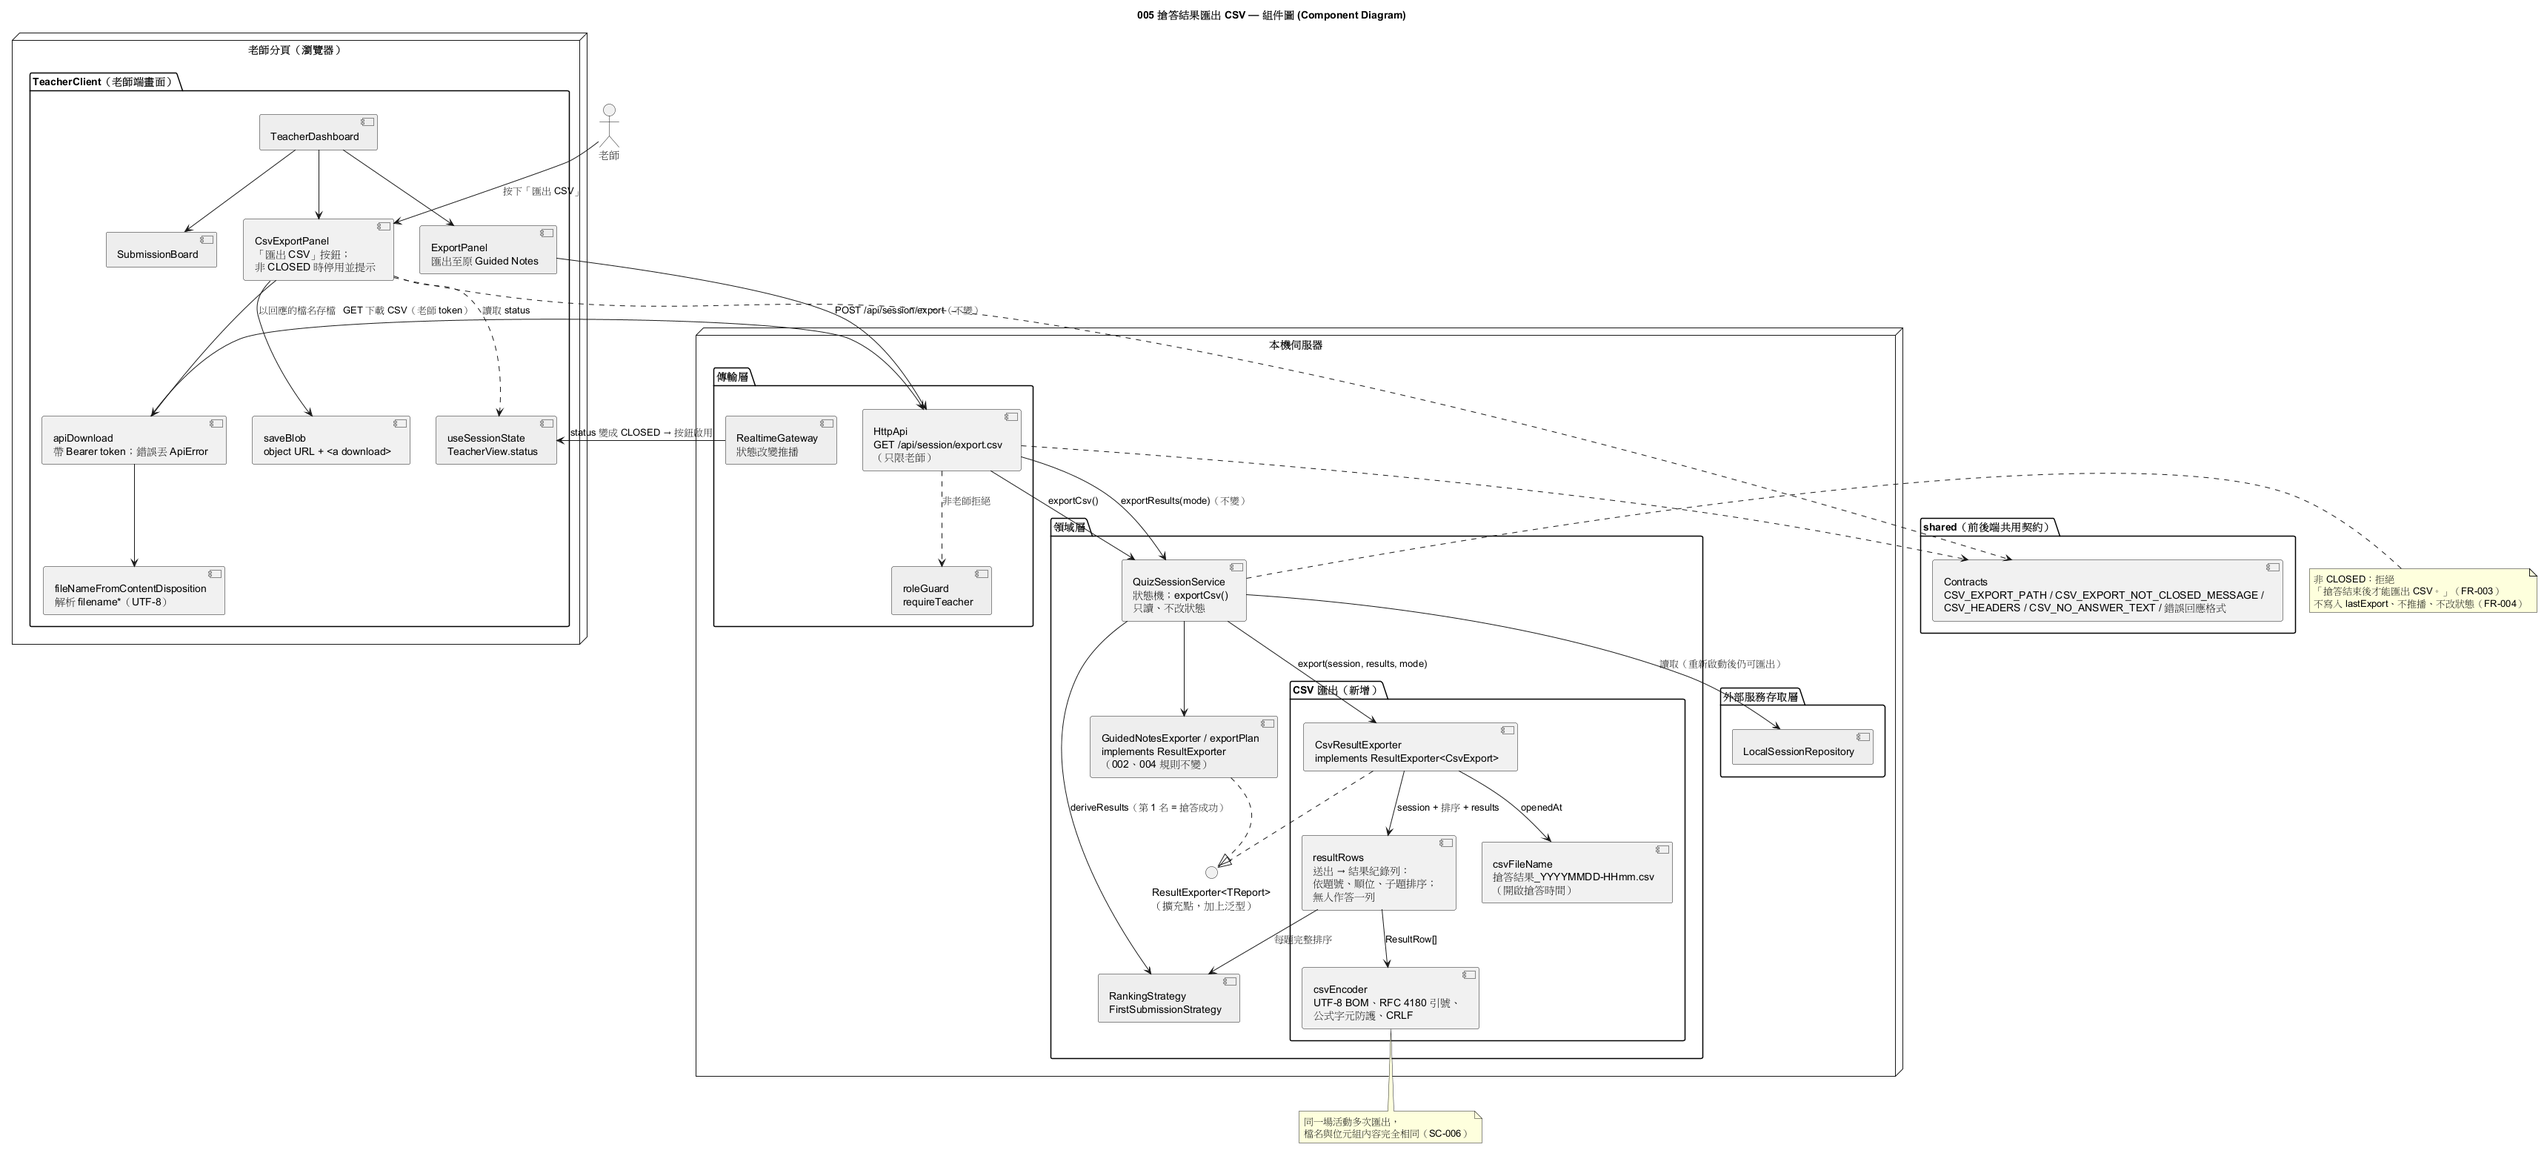
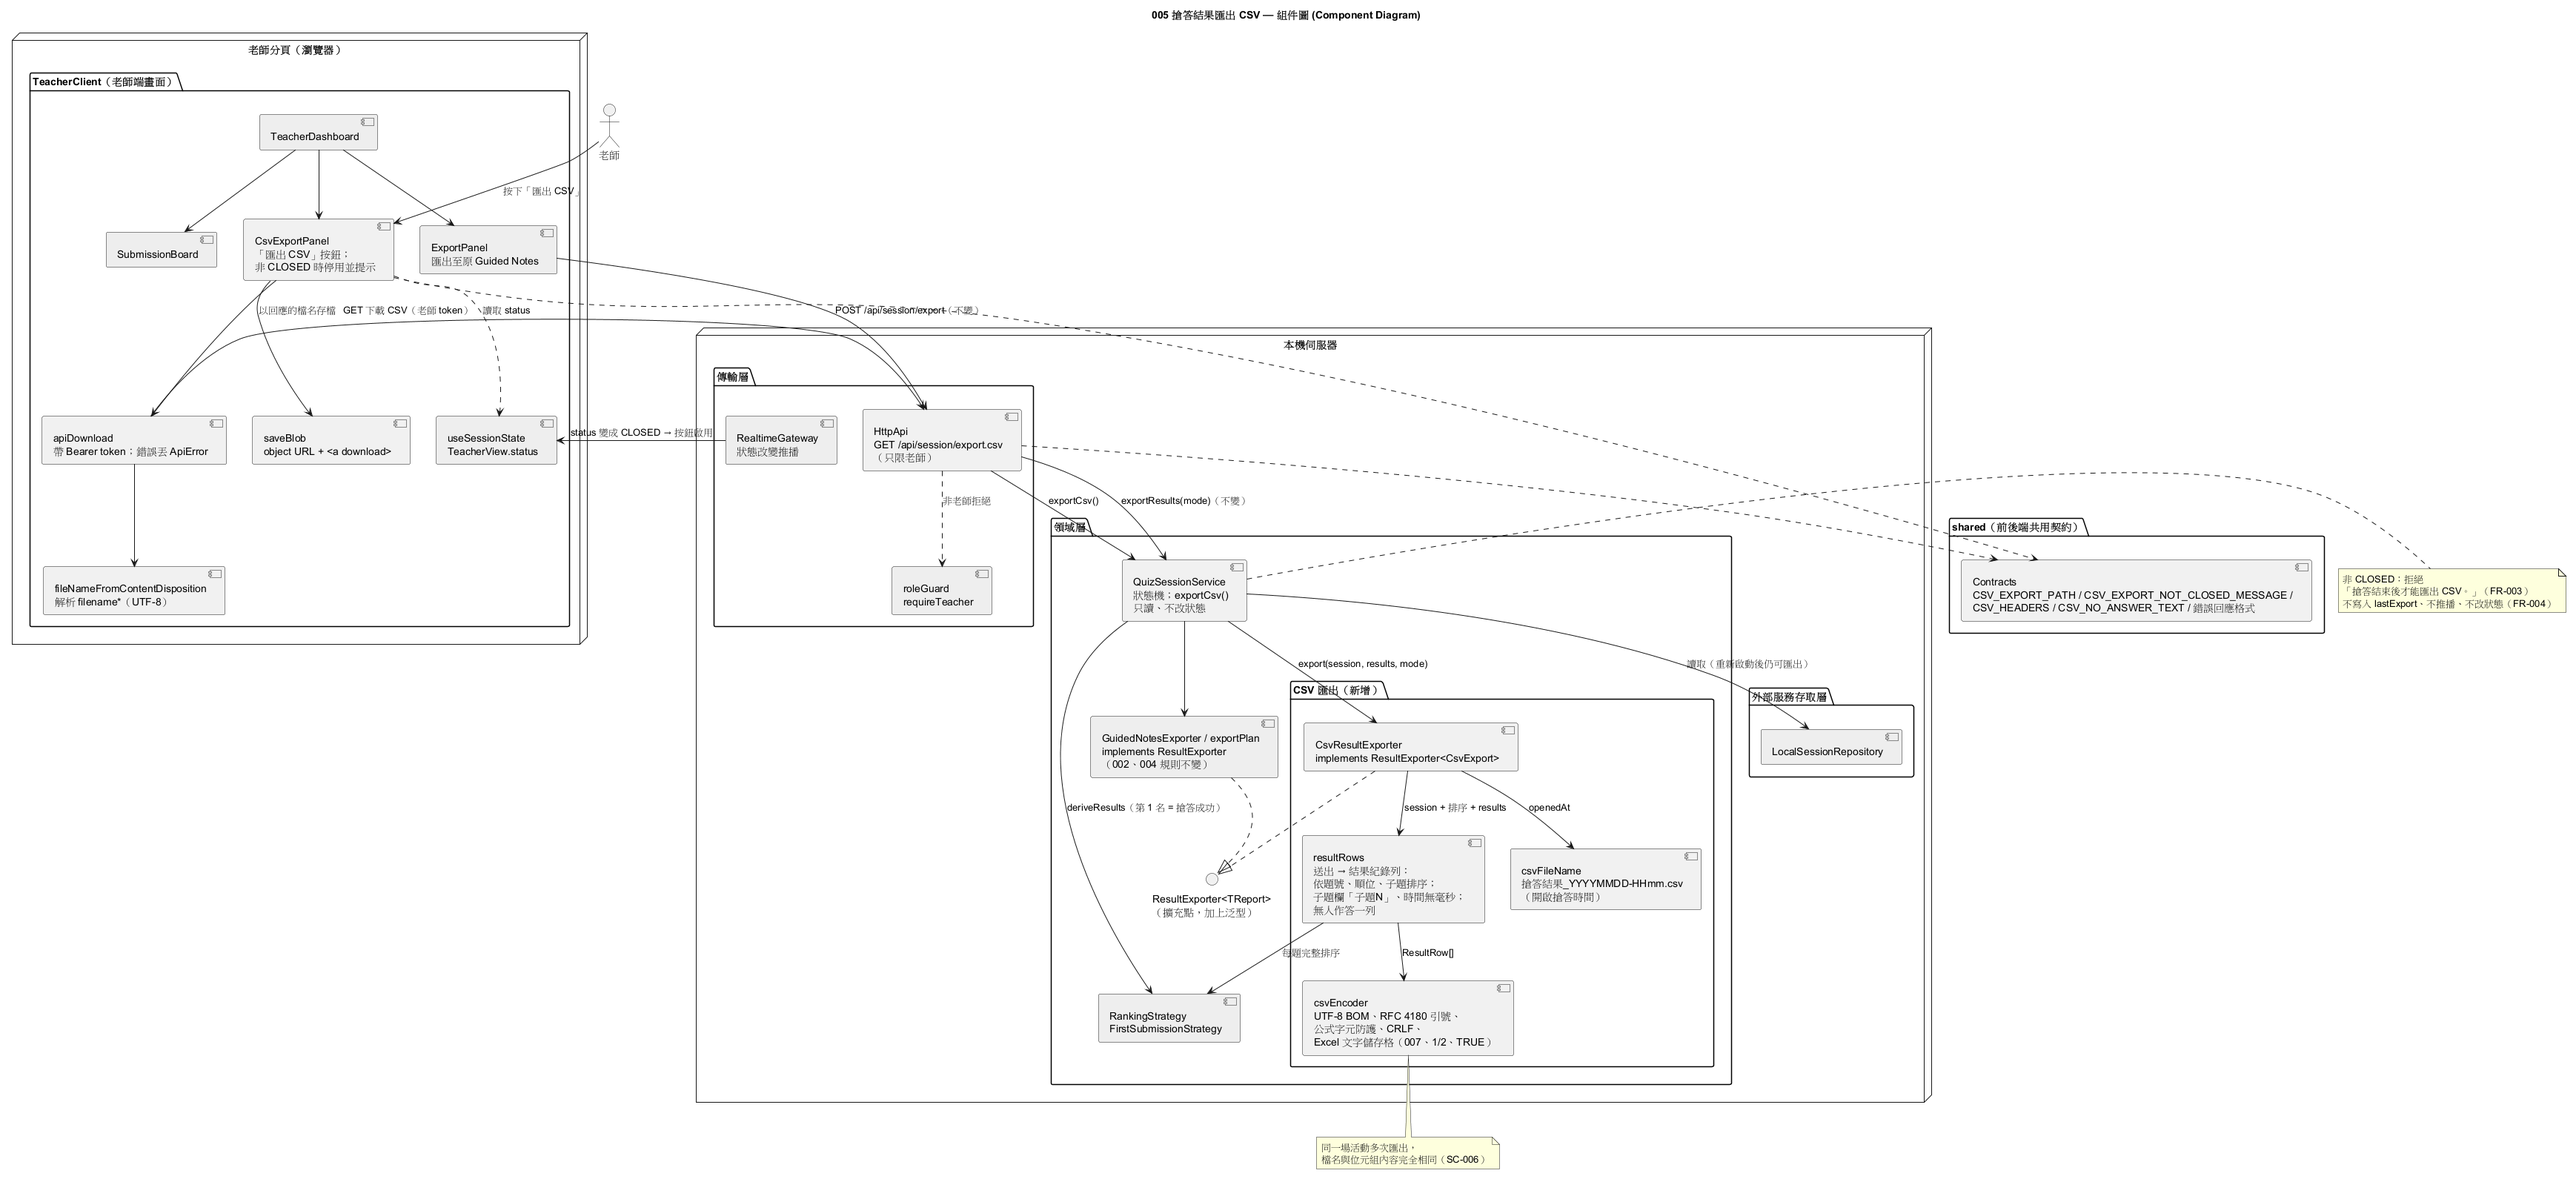
docs(005): converge diagrams, spec numbering and plan with Excel fixes
- update class/component/sequence diagrams and regenerate PNGs (T049)
- renumber Excel text-cell rule to FR-017, fix references (T050)
- update plan source structure (T051)

diff --git a/specs/005-results-csv-export/diagram-verification.md b/specs/005-results-csv-export/diagram-verification.md
@@ -15,8 +15,9 @@
 | `ResultExporter<TReport = ExportReport>` | `domain/export/resultExporter.ts` | 一致 |
 | `GuidedNotesExporter`（沿用） | `domain/export/guidedNotesExporter.ts` | 一致，未修改 |
 | `CsvResultExporter`、`CsvExport` | `domain/export/csv/csvResultExporter.ts` | 一致（忽略 mode、注入 RankingStrategy） |
-| `resultRows`：`buildResultRows`、`toCsvRecord`、`ResultRow` | `domain/export/csv/resultRows.ts` | 已更新：私有函式為 `blankLabelOf`、新增 `rowsOfSubmission`；`resultRows` 直接使用 `RankingStrategy` |
-| `csvEncoder`：`encodeCsv`、`encodeField`、`neutralizeFormula` | `domain/export/csv/csvEncoder.ts` | 已更新：新增私有的 `quoteIfNeeded` |
+| `resultRows`：`buildResultRows`、`toCsvRecord`、`ResultRow` | `domain/export/csv/resultRows.ts` | 已更新：私有函式為 `blankLabelOf`、新增 `rowsOfSubmission`；`resultRows` 直接使用 `RankingStrategy`；Excel 修正後 `blankLabelOf` 改為「子題N」、`toCsvRecord` 回傳 `CsvCell[]` 並對答案與暱稱套用 `toExcelText`、時間改用 `formatCsvSubmittedAt` |
+| `csvEncoder`：`encodeCsv`、`encodeField`、`neutralizeFormula` | `domain/export/csv/csvEncoder.ts` | 已更新：新增私有的 `quoteIfNeeded`；Excel 修正後新增 `toExcelText`、`CsvCell`、`ExcelTextCell`，`encodeField` 改收 `CsvCell` |
+| `csvSubmittedAt`：`formatCsvSubmittedAt`（取代原圖的「沿用 `formatSubmittedAt`」） | `domain/export/csv/csvSubmittedAt.ts` | 已更新：新增模組，格式 `YYYY-MM-DD HH:mm:ss`；002 的 `formatSubmittedAt` 不變，只供 Guided Notes |
 | `csvFileName`、`csvAsciiFileName` | `domain/export/csv/csvFileName.ts` | 一致 |
 | `QuizSessionService.exportCsv`、`csvExporter` 依賴 | `domain/session/quizSessionService.ts` | 一致（mutate 內回傳原 session、log 只記列數） |
 | `GET /api/session/export.csv` | `transport/http/routes/sessionRoutes.ts` | 一致 |
@@ -24,3 +25,13 @@
 | `CsvExportPanel`、`TeacherDashboard` 掛載 | `web/src/pages/teacher/` | 一致 |
 | 時序圖：排序呼叫 | `resultRows.ts` | 已更新：`rank()` 由 `resultRows` 呼叫（原圖畫成匯出器呼叫） |
 | 組件圖：排序依賴 | `resultRows.ts` | 已更新：`ResultRows --> Ranking`（原圖畫成 `CsvExporter --> Ranking`） |
+
+## 第二次更新（Excel 開啟修正，T049）
+
+人工驗證發現 Excel 會轉換子題標記、送出時間與數字型答案，程式碼因此先於圖表修改（偏離原則 VI「先改圖」的順序），
+由 converge 發現後補更新：
+
+- `005-results-csv-export-class.puml`：新增 `csvSubmittedAt`、`ExcelTextCell`；`csvEncoder` 加 `toExcelText`、`encodeField(CsvCell)`；
+  `resultRows` 加 `toCsvRecord`、`blankLabelOf` 改「子題N」；`ResultRow.submittedAt` 改為無毫秒；移除 `formatSubmittedAt`。
+- `005-results-csv-export-component.puml`、`005-results-csv-export-sequence.puml`：補上「子題N」、無毫秒時間與 Excel 文字儲存格說明。
+- 已以 `java -jar plantuml.jar "./diagrams/005*.puml"` 重新產生三張 PNG（只轉 005 的圖）；之後與 `apps/server/src/domain/export/csv/` 的程式碼一致。

diff --git a/specs/005-results-csv-export/plan.md b/specs/005-results-csv-export/plan.md
@@ -102,10 +102,13 @@ specs/005-results-csv-export/
 ├── quickstart.md        # Phase 1（含人工驗證清單）
 ├── contracts/           # Phase 1
 │   ├── http-api.md          # GET /api/session/export.csv、錯誤、共用常數
-│   ├── csv-format.md        # 編碼、引號、公式防護、欄位、排序、範例、檔名
+│   ├── csv-format.md        # 編碼、引號、公式防護、Excel 相容性、欄位、排序、範例、檔名
 │   └── teacher-ui.md        # 老師端「匯出 CSV」區塊的文字與行為
 ├── checklists/
-│   └── requirements.md
+│   ├── requirements.md
+│   └── manual-verification.md
+├── diagram-verification.md  # 圖表與程式碼一致性驗證（原則 VI）
+├── openspec-notice.md       # 對外變更摘要（給 OpenSpec 小組）
 └── tasks.md             # Phase 2（由 /speckit-tasks 產生）
 
 diagrams/
@@ -126,8 +129,9 @@ packages/shared/tests/schemas.test.ts  ～ 常數（表頭 8 欄、順序）
 
 apps/server/src/
 ├── domain/export/resultExporter.ts        ～ ResultExporter<TReport = ExportReport>
-├── domain/export/csv/csvEncoder.ts        ＋ encodeCsv、encodeField（BOM、CRLF、引號、公式防護）
-├── domain/export/csv/resultRows.ts        ＋ ResultRow、buildResultRows
+├── domain/export/csv/csvEncoder.ts        ＋ encodeCsv、encodeField、toExcelText、CsvCell、ExcelTextCell（BOM、CRLF、引號、公式防護、Excel 文字儲存格）
+├── domain/export/csv/resultRows.ts        ＋ ResultRow、buildResultRows、toCsvRecord（子題欄「子題N」）
+├── domain/export/csv/csvSubmittedAt.ts    ＋ formatCsvSubmittedAt（YYYY-MM-DD HH:mm:ss，CSV 專用）
 ├── domain/export/csv/csvFileName.ts       ＋ csvFileName、csvAsciiFileName
 ├── domain/export/csv/csvResultExporter.ts ＋ CsvExport、CsvResultExporter
 ├── domain/session/quizSessionService.ts   ～ deps.csvExporter、exportCsv()、csv_export log
@@ -136,6 +140,7 @@ apps/server/tests/
 ├── unit/csvEncoder.test.ts                ＋
 ├── unit/resultRows.test.ts                ＋
 ├── unit/csvFileName.test.ts               ＋
+├── unit/csvSubmittedAt.test.ts            ＋
 ├── unit/csvResultExporter.test.ts         ＋
 ├── unit/quizSessionService.test.ts        ～ exportCsv 狀態限制、不保存、不推播
 └── integration/csvExport.test.ts          ＋ 409／401／403、200 header 與內容、重複匯出、重新啟動、Guided Notes 不受影響

diff --git a/specs/005-results-csv-export/contracts/csv-format.md b/specs/005-results-csv-export/contracts/csv-format.md
@@ -17,7 +17,7 @@
 0. **Excel 文字儲存格**優先判斷（見步驟 3 的說明，僅答案與暱稱欄）；不符合時再依序：
 1. **公式防護**（FR-013）：值的第一個字元是 `=`、`+`、`-`、`@`、Tab（`\t`）或 CR（`\r`）時，在開頭加上 `'`。
 2. **引號**（FR-012）：值含有 `,`、`"`、`\r`、`\n`，或開頭／結尾是空白時，整個值用 `"` 包住，值中的每個 `"` 寫成 `""`。
-3. **Excel 文字儲存格**（FR-014，僅「答案」「送出者暱稱」欄）：值只含數字與 `+ - . , / : % $ e E`、空白且至少有一個數字，或是 `TRUE`／`FALSE`（不分大小寫）時，輸出 `="值"`（整格再套引號規則，即 `"=""值"""`），Excel 顯示值本身。這類值不再加 `'`（步驟 1 只處理其餘以 `=`、`+`、`-`、`@` 開頭的值）。
+3. **Excel 文字儲存格**（FR-017，僅「答案」「送出者暱稱」欄）：值只含數字與 `+ - . , / : % $ e E`、空白且至少有一個數字，或是 `TRUE`／`FALSE`（不分大小寫）時，輸出 `="值"`（整格再套引號規則，即 `"=""值"""`），Excel 顯示值本身。這類值不再加 `'`（步驟 1 只處理其餘以 `=`、`+`、`-`、`@` 開頭的值）。
 4. 其他值原樣輸出；空值（`null`）輸出空字串。
 
 | 原始值 | 輸出 |
